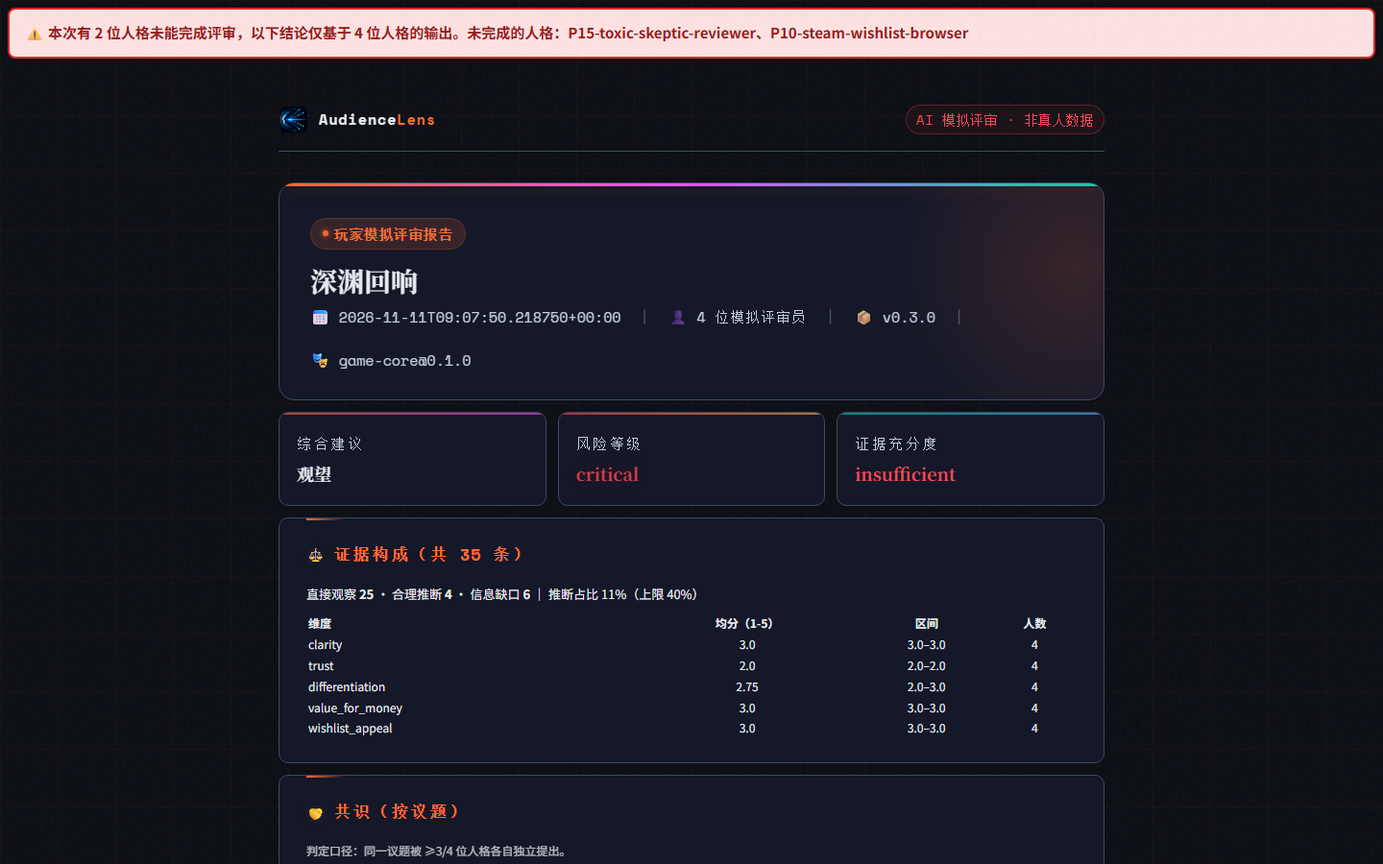
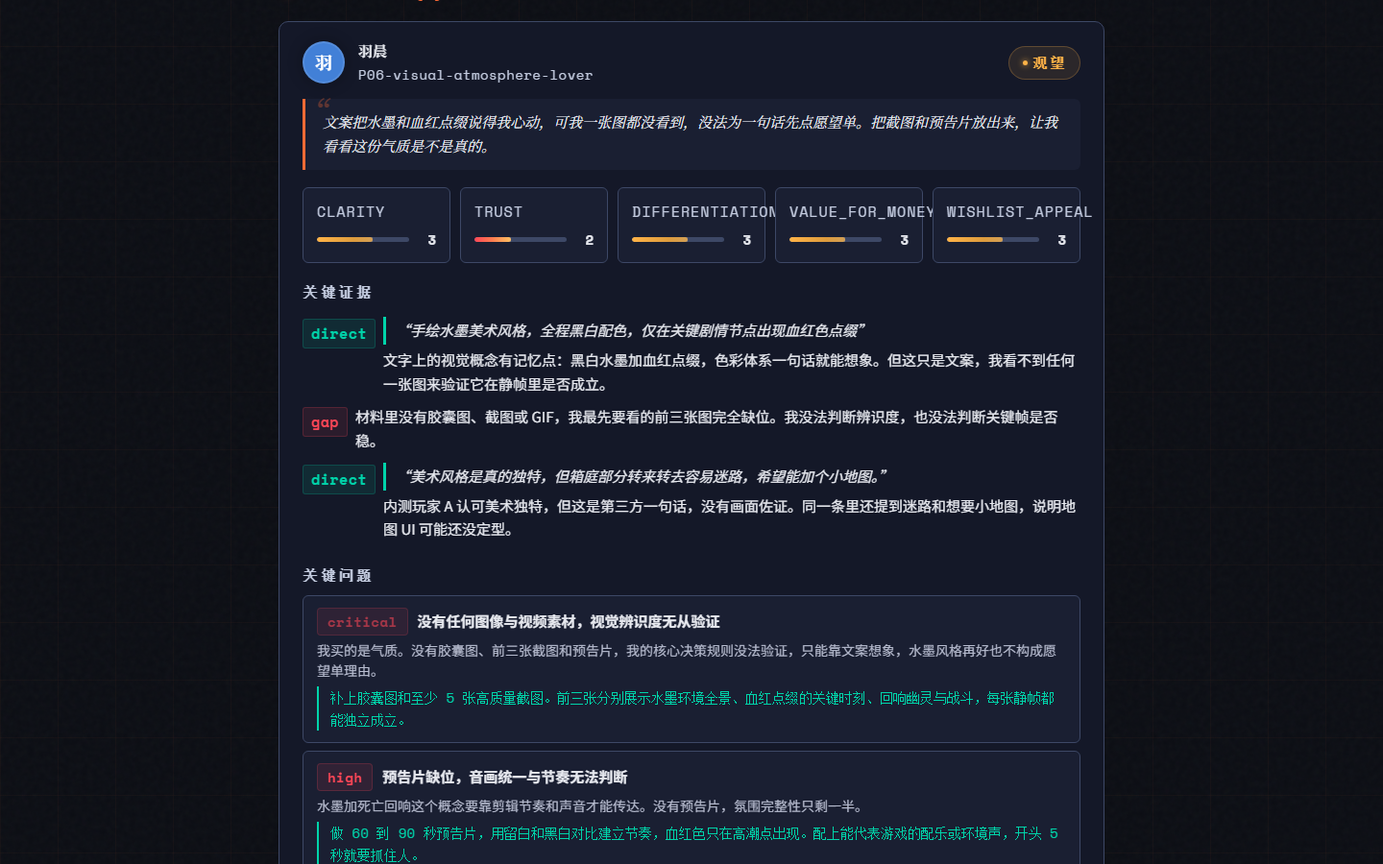
Samples: replace only the stylesheet of report.html; recapture screenshots
- The three stored sample report.html files (and their frontend copies)
  get the fixed template's <style> block. Everything outside <style> is
  byte-identical to the file the engine generated; each meta.json
  records the generated file's hash, the hash of the part outside
  <style>, the fix commit and the reason, and a test recomputes it.
- Wording in the READMEs (en/zh/ja) and on the /samples page: the model
  output is unedited; the stylesheet was updated after a CSS fix.
- report.png (en, zh) recaptured at the persona section, where the
  quotation is shown above the comment; samples.png recaptured because
  the page text changed.

Changed region(s): [[0.0, 0.0, 1.0, 1.0], [0.625, 0.3422, 0.6875, 0.3733]]

diff --git a/examples/reports/saas-pricing-cloud-notes/report.html b/examples/reports/saas-pricing-cloud-notes/report.html
@@ -79,7 +79,6 @@
   .severity-badge.high{background:rgba(255,71,87,0.1);color:var(--red);border:1px solid rgba(255,71,87,0.2)}
   .severity-badge.critical{background:rgba(255,71,87,0.15);color:var(--red);border:1px solid rgba(255,71,87,0.3);animation:critical-pulse 1.5s ease-in-out infinite}
   .comment-thread{margin-top:12px}
-  .comment-thread .section-title{.stance-persona{font-family:var(--font-mono);font-weight:700;min-width:70px;color:var(--text-secondary);font-size:14px}
   .comment{background:var(--surface);border:1px solid var(--border);border-radius:var(--radius-sm);margin-bottom:14px;overflow:hidden;transition:border-color 0.3s,box-shadow 0.3s;position:relative}
   .comment::before{content:'';position:absolute;top:0;left:0;bottom:0;width:3px;background:linear-gradient(180deg,var(--accent),var(--magenta));opacity:0;transition:opacity 0.3s}
   .comment:hover{border-color:var(--border-glow);box-shadow:0 0 30px rgba(255,107,53,0.05)}
@@ -130,7 +129,7 @@
   .issue-title{font-size:15px;font-weight:700}
   .issue-why{font-size:14px;color:#b8bdd0;line-height:1.5}
   .issue-fix{font-size:14px;color:var(--cyan);margin-top:6px;font-family:var(--font-mono);padding-left:12px;border-left:2px solid var(--cyan)}
-  .triggers-row{display:flex;gap:20px;flex-wrap:wrap;.stance-persona{font-family:var(--font-mono);font-weight:700;min-width:70px;color:var(--text-secondary);font-size:14px}
+  .triggers-row{display:flex;gap:20px;flex-wrap:wrap}
   .trigger-group{flex:1;min-width:200px}
   .trigger-group .sub-title{font-family:var(--font-mono);font-size:15px;font-weight:700;margin-bottom:6px;text-transform:uppercase;letter-spacing:1px}
   .trigger-group.continue .sub-title{color:var(--green)}
@@ -237,7 +236,7 @@
   .compliance-steps-list li::before{content:'\25C7';position:absolute;left:0;color:var(--cyan);font-size:14px}
   .compliance-ai-notice{margin-top:16px;padding:12px 18px;background:rgba(255,71,87,0.05);border:1px solid rgba(255,71,87,0.15);border-radius:var(--radius-xs);font-family:var(--font-mono);font-size:15px;color:var(--red);display:flex;align-items:center;gap:8px}
   .compliance-ai-notice::before{content:'\26A0';font-size:14px}
-  @media(max-width:640px){.container{padding:20px 12px 60px}.post-header{padding:24px 18px 20px}.post-title{font-size:22px}.summary-hud{grid-template-columns:1fr}.comment-top{flex-wrap:wrap}.scores-grid{grid-template-columns:1fr 1fr}.fix-table{.stance-persona{font-family:var(--font-mono);font-weight:700;min-width:70px;color:var(--text-secondary);font-size:14px}.fix-table th,.fix-table td{padding:8px}.triggers-row{flex-direction:column}.debate-sides{grid-template-columns:1fr}.debate-side.pro{border-right:none;border-bottom:1px solid var(--border)}.compliance-body{grid-template-columns:1fr}.round-indicator{flex-wrap:wrap}.round-step{min-width:calc(50% - 2px)}.round-connector{display:none}.vote-change-item{flex-wrap:wrap}}
+  @media(max-width:640px){.container{padding:20px 12px 60px}.post-header{padding:24px 18px 20px}.post-title{font-size:22px}.summary-hud{grid-template-columns:1fr}.comment-top{flex-wrap:wrap}.scores-grid{grid-template-columns:1fr 1fr}.fix-table th,.fix-table td{padding:8px}.triggers-row{flex-direction:column}.debate-sides{grid-template-columns:1fr}.debate-side.pro{border-right:none;border-bottom:1px solid var(--border)}.compliance-body{grid-template-columns:1fr}.round-indicator{flex-wrap:wrap}.round-step{min-width:calc(50% - 2px)}.round-connector{display:none}.vote-change-item{flex-wrap:wrap}}
   /* 「浏览器打印生成 PDF」的专用样式。原页面是深色主题——原样打印会整页黑底
      铺满，要么被浏览器默认策略吞掉背景色变成白底白字看不见，要么真按深色印
      出来废掉一墨盒。打印场景要的是"能读、省墨"，不是还原网页视觉效果。 */

diff --git a/examples/reports/startup-pitch-cloud-accounting/report.html b/examples/reports/startup-pitch-cloud-accounting/report.html
@@ -79,7 +79,6 @@
   .severity-badge.high{background:rgba(255,71,87,0.1);color:var(--red);border:1px solid rgba(255,71,87,0.2)}
   .severity-badge.critical{background:rgba(255,71,87,0.15);color:var(--red);border:1px solid rgba(255,71,87,0.3);animation:critical-pulse 1.5s ease-in-out infinite}
   .comment-thread{margin-top:12px}
-  .comment-thread .section-title{.stance-persona{font-family:var(--font-mono);font-weight:700;min-width:70px;color:var(--text-secondary);font-size:14px}
   .comment{background:var(--surface);border:1px solid var(--border);border-radius:var(--radius-sm);margin-bottom:14px;overflow:hidden;transition:border-color 0.3s,box-shadow 0.3s;position:relative}
   .comment::before{content:'';position:absolute;top:0;left:0;bottom:0;width:3px;background:linear-gradient(180deg,var(--accent),var(--magenta));opacity:0;transition:opacity 0.3s}
   .comment:hover{border-color:var(--border-glow);box-shadow:0 0 30px rgba(255,107,53,0.05)}
@@ -130,7 +129,7 @@
   .issue-title{font-size:15px;font-weight:700}
   .issue-why{font-size:14px;color:#b8bdd0;line-height:1.5}
   .issue-fix{font-size:14px;color:var(--cyan);margin-top:6px;font-family:var(--font-mono);padding-left:12px;border-left:2px solid var(--cyan)}
-  .triggers-row{display:flex;gap:20px;flex-wrap:wrap;.stance-persona{font-family:var(--font-mono);font-weight:700;min-width:70px;color:var(--text-secondary);font-size:14px}
+  .triggers-row{display:flex;gap:20px;flex-wrap:wrap}
   .trigger-group{flex:1;min-width:200px}
   .trigger-group .sub-title{font-family:var(--font-mono);font-size:15px;font-weight:700;margin-bottom:6px;text-transform:uppercase;letter-spacing:1px}
   .trigger-group.continue .sub-title{color:var(--green)}
@@ -237,7 +236,7 @@
   .compliance-steps-list li::before{content:'\25C7';position:absolute;left:0;color:var(--cyan);font-size:14px}
   .compliance-ai-notice{margin-top:16px;padding:12px 18px;background:rgba(255,71,87,0.05);border:1px solid rgba(255,71,87,0.15);border-radius:var(--radius-xs);font-family:var(--font-mono);font-size:15px;color:var(--red);display:flex;align-items:center;gap:8px}
   .compliance-ai-notice::before{content:'\26A0';font-size:14px}
-  @media(max-width:640px){.container{padding:20px 12px 60px}.post-header{padding:24px 18px 20px}.post-title{font-size:22px}.summary-hud{grid-template-columns:1fr}.comment-top{flex-wrap:wrap}.scores-grid{grid-template-columns:1fr 1fr}.fix-table{.stance-persona{font-family:var(--font-mono);font-weight:700;min-width:70px;color:var(--text-secondary);font-size:14px}.fix-table th,.fix-table td{padding:8px}.triggers-row{flex-direction:column}.debate-sides{grid-template-columns:1fr}.debate-side.pro{border-right:none;border-bottom:1px solid var(--border)}.compliance-body{grid-template-columns:1fr}.round-indicator{flex-wrap:wrap}.round-step{min-width:calc(50% - 2px)}.round-connector{display:none}.vote-change-item{flex-wrap:wrap}}
+  @media(max-width:640px){.container{padding:20px 12px 60px}.post-header{padding:24px 18px 20px}.post-title{font-size:22px}.summary-hud{grid-template-columns:1fr}.comment-top{flex-wrap:wrap}.scores-grid{grid-template-columns:1fr 1fr}.fix-table th,.fix-table td{padding:8px}.triggers-row{flex-direction:column}.debate-sides{grid-template-columns:1fr}.debate-side.pro{border-right:none;border-bottom:1px solid var(--border)}.compliance-body{grid-template-columns:1fr}.round-indicator{flex-wrap:wrap}.round-step{min-width:calc(50% - 2px)}.round-connector{display:none}.vote-change-item{flex-wrap:wrap}}
   /* 「浏览器打印生成 PDF」的专用样式。原页面是深色主题——原样打印会整页黑底
      铺满，要么被浏览器默认策略吞掉背景色变成白底白字看不见，要么真按深色印
      出来废掉一墨盒。打印场景要的是"能读、省墨"，不是还原网页视觉效果。 */

diff --git a/examples/reports/steam-page-abyss-echo/report.html b/examples/reports/steam-page-abyss-echo/report.html
@@ -79,7 +79,6 @@
   .severity-badge.high{background:rgba(255,71,87,0.1);color:var(--red);border:1px solid rgba(255,71,87,0.2)}
   .severity-badge.critical{background:rgba(255,71,87,0.15);color:var(--red);border:1px solid rgba(255,71,87,0.3);animation:critical-pulse 1.5s ease-in-out infinite}
   .comment-thread{margin-top:12px}
-  .comment-thread .section-title{.stance-persona{font-family:var(--font-mono);font-weight:700;min-width:70px;color:var(--text-secondary);font-size:14px}
   .comment{background:var(--surface);border:1px solid var(--border);border-radius:var(--radius-sm);margin-bottom:14px;overflow:hidden;transition:border-color 0.3s,box-shadow 0.3s;position:relative}
   .comment::before{content:'';position:absolute;top:0;left:0;bottom:0;width:3px;background:linear-gradient(180deg,var(--accent),var(--magenta));opacity:0;transition:opacity 0.3s}
   .comment:hover{border-color:var(--border-glow);box-shadow:0 0 30px rgba(255,107,53,0.05)}
@@ -130,7 +129,7 @@
   .issue-title{font-size:15px;font-weight:700}
   .issue-why{font-size:14px;color:#b8bdd0;line-height:1.5}
   .issue-fix{font-size:14px;color:var(--cyan);margin-top:6px;font-family:var(--font-mono);padding-left:12px;border-left:2px solid var(--cyan)}
-  .triggers-row{display:flex;gap:20px;flex-wrap:wrap;.stance-persona{font-family:var(--font-mono);font-weight:700;min-width:70px;color:var(--text-secondary);font-size:14px}
+  .triggers-row{display:flex;gap:20px;flex-wrap:wrap}
   .trigger-group{flex:1;min-width:200px}
   .trigger-group .sub-title{font-family:var(--font-mono);font-size:15px;font-weight:700;margin-bottom:6px;text-transform:uppercase;letter-spacing:1px}
   .trigger-group.continue .sub-title{color:var(--green)}
@@ -237,7 +236,7 @@
   .compliance-steps-list li::before{content:'\25C7';position:absolute;left:0;color:var(--cyan);font-size:14px}
   .compliance-ai-notice{margin-top:16px;padding:12px 18px;background:rgba(255,71,87,0.05);border:1px solid rgba(255,71,87,0.15);border-radius:var(--radius-xs);font-family:var(--font-mono);font-size:15px;color:var(--red);display:flex;align-items:center;gap:8px}
   .compliance-ai-notice::before{content:'\26A0';font-size:14px}
-  @media(max-width:640px){.container{padding:20px 12px 60px}.post-header{padding:24px 18px 20px}.post-title{font-size:22px}.summary-hud{grid-template-columns:1fr}.comment-top{flex-wrap:wrap}.scores-grid{grid-template-columns:1fr 1fr}.fix-table{.stance-persona{font-family:var(--font-mono);font-weight:700;min-width:70px;color:var(--text-secondary);font-size:14px}.fix-table th,.fix-table td{padding:8px}.triggers-row{flex-direction:column}.debate-sides{grid-template-columns:1fr}.debate-side.pro{border-right:none;border-bottom:1px solid var(--border)}.compliance-body{grid-template-columns:1fr}.round-indicator{flex-wrap:wrap}.round-step{min-width:calc(50% - 2px)}.round-connector{display:none}.vote-change-item{flex-wrap:wrap}}
+  @media(max-width:640px){.container{padding:20px 12px 60px}.post-header{padding:24px 18px 20px}.post-title{font-size:22px}.summary-hud{grid-template-columns:1fr}.comment-top{flex-wrap:wrap}.scores-grid{grid-template-columns:1fr 1fr}.fix-table th,.fix-table td{padding:8px}.triggers-row{flex-direction:column}.debate-sides{grid-template-columns:1fr}.debate-side.pro{border-right:none;border-bottom:1px solid var(--border)}.compliance-body{grid-template-columns:1fr}.round-indicator{flex-wrap:wrap}.round-step{min-width:calc(50% - 2px)}.round-connector{display:none}.vote-change-item{flex-wrap:wrap}}
   /* 「浏览器打印生成 PDF」的专用样式。原页面是深色主题——原样打印会整页黑底
      铺满，要么被浏览器默认策略吞掉背景色变成白底白字看不见，要么真按深色印
      出来废掉一墨盒。打印场景要的是"能读、省墨"，不是还原网页视觉效果。 */

diff --git a/web/frontend/public/sample-reports/saas-pricing-cloud-notes/report.html b/web/frontend/public/sample-reports/saas-pricing-cloud-notes/report.html
@@ -79,7 +79,6 @@
   .severity-badge.high{background:rgba(255,71,87,0.1);color:var(--red);border:1px solid rgba(255,71,87,0.2)}
   .severity-badge.critical{background:rgba(255,71,87,0.15);color:var(--red);border:1px solid rgba(255,71,87,0.3);animation:critical-pulse 1.5s ease-in-out infinite}
   .comment-thread{margin-top:12px}
-  .comment-thread .section-title{.stance-persona{font-family:var(--font-mono);font-weight:700;min-width:70px;color:var(--text-secondary);font-size:14px}
   .comment{background:var(--surface);border:1px solid var(--border);border-radius:var(--radius-sm);margin-bottom:14px;overflow:hidden;transition:border-color 0.3s,box-shadow 0.3s;position:relative}
   .comment::before{content:'';position:absolute;top:0;left:0;bottom:0;width:3px;background:linear-gradient(180deg,var(--accent),var(--magenta));opacity:0;transition:opacity 0.3s}
   .comment:hover{border-color:var(--border-glow);box-shadow:0 0 30px rgba(255,107,53,0.05)}
@@ -130,7 +129,7 @@
   .issue-title{font-size:15px;font-weight:700}
   .issue-why{font-size:14px;color:#b8bdd0;line-height:1.5}
   .issue-fix{font-size:14px;color:var(--cyan);margin-top:6px;font-family:var(--font-mono);padding-left:12px;border-left:2px solid var(--cyan)}
-  .triggers-row{display:flex;gap:20px;flex-wrap:wrap;.stance-persona{font-family:var(--font-mono);font-weight:700;min-width:70px;color:var(--text-secondary);font-size:14px}
+  .triggers-row{display:flex;gap:20px;flex-wrap:wrap}
   .trigger-group{flex:1;min-width:200px}
   .trigger-group .sub-title{font-family:var(--font-mono);font-size:15px;font-weight:700;margin-bottom:6px;text-transform:uppercase;letter-spacing:1px}
   .trigger-group.continue .sub-title{color:var(--green)}
@@ -237,7 +236,7 @@
   .compliance-steps-list li::before{content:'\25C7';position:absolute;left:0;color:var(--cyan);font-size:14px}
   .compliance-ai-notice{margin-top:16px;padding:12px 18px;background:rgba(255,71,87,0.05);border:1px solid rgba(255,71,87,0.15);border-radius:var(--radius-xs);font-family:var(--font-mono);font-size:15px;color:var(--red);display:flex;align-items:center;gap:8px}
   .compliance-ai-notice::before{content:'\26A0';font-size:14px}
-  @media(max-width:640px){.container{padding:20px 12px 60px}.post-header{padding:24px 18px 20px}.post-title{font-size:22px}.summary-hud{grid-template-columns:1fr}.comment-top{flex-wrap:wrap}.scores-grid{grid-template-columns:1fr 1fr}.fix-table{.stance-persona{font-family:var(--font-mono);font-weight:700;min-width:70px;color:var(--text-secondary);font-size:14px}.fix-table th,.fix-table td{padding:8px}.triggers-row{flex-direction:column}.debate-sides{grid-template-columns:1fr}.debate-side.pro{border-right:none;border-bottom:1px solid var(--border)}.compliance-body{grid-template-columns:1fr}.round-indicator{flex-wrap:wrap}.round-step{min-width:calc(50% - 2px)}.round-connector{display:none}.vote-change-item{flex-wrap:wrap}}
+  @media(max-width:640px){.container{padding:20px 12px 60px}.post-header{padding:24px 18px 20px}.post-title{font-size:22px}.summary-hud{grid-template-columns:1fr}.comment-top{flex-wrap:wrap}.scores-grid{grid-template-columns:1fr 1fr}.fix-table th,.fix-table td{padding:8px}.triggers-row{flex-direction:column}.debate-sides{grid-template-columns:1fr}.debate-side.pro{border-right:none;border-bottom:1px solid var(--border)}.compliance-body{grid-template-columns:1fr}.round-indicator{flex-wrap:wrap}.round-step{min-width:calc(50% - 2px)}.round-connector{display:none}.vote-change-item{flex-wrap:wrap}}
   /* 「浏览器打印生成 PDF」的专用样式。原页面是深色主题——原样打印会整页黑底
      铺满，要么被浏览器默认策略吞掉背景色变成白底白字看不见，要么真按深色印
      出来废掉一墨盒。打印场景要的是"能读、省墨"，不是还原网页视觉效果。 */

diff --git a/web/frontend/public/sample-reports/startup-pitch-cloud-accounting/report.html b/web/frontend/public/sample-reports/startup-pitch-cloud-accounting/report.html
@@ -79,7 +79,6 @@
   .severity-badge.high{background:rgba(255,71,87,0.1);color:var(--red);border:1px solid rgba(255,71,87,0.2)}
   .severity-badge.critical{background:rgba(255,71,87,0.15);color:var(--red);border:1px solid rgba(255,71,87,0.3);animation:critical-pulse 1.5s ease-in-out infinite}
   .comment-thread{margin-top:12px}
-  .comment-thread .section-title{.stance-persona{font-family:var(--font-mono);font-weight:700;min-width:70px;color:var(--text-secondary);font-size:14px}
   .comment{background:var(--surface);border:1px solid var(--border);border-radius:var(--radius-sm);margin-bottom:14px;overflow:hidden;transition:border-color 0.3s,box-shadow 0.3s;position:relative}
   .comment::before{content:'';position:absolute;top:0;left:0;bottom:0;width:3px;background:linear-gradient(180deg,var(--accent),var(--magenta));opacity:0;transition:opacity 0.3s}
   .comment:hover{border-color:var(--border-glow);box-shadow:0 0 30px rgba(255,107,53,0.05)}
@@ -130,7 +129,7 @@
   .issue-title{font-size:15px;font-weight:700}
   .issue-why{font-size:14px;color:#b8bdd0;line-height:1.5}
   .issue-fix{font-size:14px;color:var(--cyan);margin-top:6px;font-family:var(--font-mono);padding-left:12px;border-left:2px solid var(--cyan)}
-  .triggers-row{display:flex;gap:20px;flex-wrap:wrap;.stance-persona{font-family:var(--font-mono);font-weight:700;min-width:70px;color:var(--text-secondary);font-size:14px}
+  .triggers-row{display:flex;gap:20px;flex-wrap:wrap}
   .trigger-group{flex:1;min-width:200px}
   .trigger-group .sub-title{font-family:var(--font-mono);font-size:15px;font-weight:700;margin-bottom:6px;text-transform:uppercase;letter-spacing:1px}
   .trigger-group.continue .sub-title{color:var(--green)}
@@ -237,7 +236,7 @@
   .compliance-steps-list li::before{content:'\25C7';position:absolute;left:0;color:var(--cyan);font-size:14px}
   .compliance-ai-notice{margin-top:16px;padding:12px 18px;background:rgba(255,71,87,0.05);border:1px solid rgba(255,71,87,0.15);border-radius:var(--radius-xs);font-family:var(--font-mono);font-size:15px;color:var(--red);display:flex;align-items:center;gap:8px}
   .compliance-ai-notice::before{content:'\26A0';font-size:14px}
-  @media(max-width:640px){.container{padding:20px 12px 60px}.post-header{padding:24px 18px 20px}.post-title{font-size:22px}.summary-hud{grid-template-columns:1fr}.comment-top{flex-wrap:wrap}.scores-grid{grid-template-columns:1fr 1fr}.fix-table{.stance-persona{font-family:var(--font-mono);font-weight:700;min-width:70px;color:var(--text-secondary);font-size:14px}.fix-table th,.fix-table td{padding:8px}.triggers-row{flex-direction:column}.debate-sides{grid-template-columns:1fr}.debate-side.pro{border-right:none;border-bottom:1px solid var(--border)}.compliance-body{grid-template-columns:1fr}.round-indicator{flex-wrap:wrap}.round-step{min-width:calc(50% - 2px)}.round-connector{display:none}.vote-change-item{flex-wrap:wrap}}
+  @media(max-width:640px){.container{padding:20px 12px 60px}.post-header{padding:24px 18px 20px}.post-title{font-size:22px}.summary-hud{grid-template-columns:1fr}.comment-top{flex-wrap:wrap}.scores-grid{grid-template-columns:1fr 1fr}.fix-table th,.fix-table td{padding:8px}.triggers-row{flex-direction:column}.debate-sides{grid-template-columns:1fr}.debate-side.pro{border-right:none;border-bottom:1px solid var(--border)}.compliance-body{grid-template-columns:1fr}.round-indicator{flex-wrap:wrap}.round-step{min-width:calc(50% - 2px)}.round-connector{display:none}.vote-change-item{flex-wrap:wrap}}
   /* 「浏览器打印生成 PDF」的专用样式。原页面是深色主题——原样打印会整页黑底
      铺满，要么被浏览器默认策略吞掉背景色变成白底白字看不见，要么真按深色印
      出来废掉一墨盒。打印场景要的是"能读、省墨"，不是还原网页视觉效果。 */

diff --git a/web/frontend/public/sample-reports/steam-page-abyss-echo/report.html b/web/frontend/public/sample-reports/steam-page-abyss-echo/report.html
@@ -79,7 +79,6 @@
   .severity-badge.high{background:rgba(255,71,87,0.1);color:var(--red);border:1px solid rgba(255,71,87,0.2)}
   .severity-badge.critical{background:rgba(255,71,87,0.15);color:var(--red);border:1px solid rgba(255,71,87,0.3);animation:critical-pulse 1.5s ease-in-out infinite}
   .comment-thread{margin-top:12px}
-  .comment-thread .section-title{.stance-persona{font-family:var(--font-mono);font-weight:700;min-width:70px;color:var(--text-secondary);font-size:14px}
   .comment{background:var(--surface);border:1px solid var(--border);border-radius:var(--radius-sm);margin-bottom:14px;overflow:hidden;transition:border-color 0.3s,box-shadow 0.3s;position:relative}
   .comment::before{content:'';position:absolute;top:0;left:0;bottom:0;width:3px;background:linear-gradient(180deg,var(--accent),var(--magenta));opacity:0;transition:opacity 0.3s}
   .comment:hover{border-color:var(--border-glow);box-shadow:0 0 30px rgba(255,107,53,0.05)}
@@ -130,7 +129,7 @@
   .issue-title{font-size:15px;font-weight:700}
   .issue-why{font-size:14px;color:#b8bdd0;line-height:1.5}
   .issue-fix{font-size:14px;color:var(--cyan);margin-top:6px;font-family:var(--font-mono);padding-left:12px;border-left:2px solid var(--cyan)}
-  .triggers-row{display:flex;gap:20px;flex-wrap:wrap;.stance-persona{font-family:var(--font-mono);font-weight:700;min-width:70px;color:var(--text-secondary);font-size:14px}
+  .triggers-row{display:flex;gap:20px;flex-wrap:wrap}
   .trigger-group{flex:1;min-width:200px}
   .trigger-group .sub-title{font-family:var(--font-mono);font-size:15px;font-weight:700;margin-bottom:6px;text-transform:uppercase;letter-spacing:1px}
   .trigger-group.continue .sub-title{color:var(--green)}
@@ -237,7 +236,7 @@
   .compliance-steps-list li::before{content:'\25C7';position:absolute;left:0;color:var(--cyan);font-size:14px}
   .compliance-ai-notice{margin-top:16px;padding:12px 18px;background:rgba(255,71,87,0.05);border:1px solid rgba(255,71,87,0.15);border-radius:var(--radius-xs);font-family:var(--font-mono);font-size:15px;color:var(--red);display:flex;align-items:center;gap:8px}
   .compliance-ai-notice::before{content:'\26A0';font-size:14px}
-  @media(max-width:640px){.container{padding:20px 12px 60px}.post-header{padding:24px 18px 20px}.post-title{font-size:22px}.summary-hud{grid-template-columns:1fr}.comment-top{flex-wrap:wrap}.scores-grid{grid-template-columns:1fr 1fr}.fix-table{.stance-persona{font-family:var(--font-mono);font-weight:700;min-width:70px;color:var(--text-secondary);font-size:14px}.fix-table th,.fix-table td{padding:8px}.triggers-row{flex-direction:column}.debate-sides{grid-template-columns:1fr}.debate-side.pro{border-right:none;border-bottom:1px solid var(--border)}.compliance-body{grid-template-columns:1fr}.round-indicator{flex-wrap:wrap}.round-step{min-width:calc(50% - 2px)}.round-connector{display:none}.vote-change-item{flex-wrap:wrap}}
+  @media(max-width:640px){.container{padding:20px 12px 60px}.post-header{padding:24px 18px 20px}.post-title{font-size:22px}.summary-hud{grid-template-columns:1fr}.comment-top{flex-wrap:wrap}.scores-grid{grid-template-columns:1fr 1fr}.fix-table th,.fix-table td{padding:8px}.triggers-row{flex-direction:column}.debate-sides{grid-template-columns:1fr}.debate-side.pro{border-right:none;border-bottom:1px solid var(--border)}.compliance-body{grid-template-columns:1fr}.round-indicator{flex-wrap:wrap}.round-step{min-width:calc(50% - 2px)}.round-connector{display:none}.vote-change-item{flex-wrap:wrap}}
   /* 「浏览器打印生成 PDF」的专用样式。原页面是深色主题——原样打印会整页黑底
      铺满，要么被浏览器默认策略吞掉背景色变成白底白字看不见，要么真按深色印
      出来废掉一墨盒。打印场景要的是"能读、省墨"，不是还原网页视觉效果。 */

diff --git a/web/frontend/src/i18n/locales/en/page.samples.ts b/web/frontend/src/i18n/locales/en/page.samples.ts
@@ -4,7 +4,7 @@ export default {
   'meta.title': 'Sample reports',
   'header.title': 'Sample reports',
   'header.desc':
-    'Each report below was produced by a real AudienceLens engine run on fictional product material and saved as-is, with no manual edits. Open one to see the full HTML report.',
+    'Each report below was produced by a real AudienceLens engine run on fictional product material and the model output is unedited (only the stylesheet of the HTML report was updated after a CSS fix). Open one to see the full HTML report.',
   'notice.desc':
     'These are AI-generated synthetic reviews, not real user research. Personas that failed validation are left out of the conclusions, and the report says so at the top.',
   'load.pending': 'Loading the sample list…',

diff --git a/web/frontend/src/i18n/locales/zh/page.samples.ts b/web/frontend/src/i18n/locales/zh/page.samples.ts
@@ -10,7 +10,7 @@ export default {
   'meta.title': '样例报告',
   'header.title': '样例报告',
   'header.desc':
-    '下面几份报告由 AudienceLens 引擎对虚构的产品材料真实运行生成，原样保存，没有手工修改。点开可以看到完整的 HTML 报告。',
+    '下面几份报告由 AudienceLens 引擎对虚构的产品材料真实运行生成，模型输出没有改动（HTML 报告只在一次 CSS 修复后更新过样式表）。点开可以看到完整的 HTML 报告。',
   'notice.desc':
     '这些都是 AI 合成评审，不是真实用户研究。没通过校验的人格不计入结论，报告顶部会如实标出。',
   'load.pending': '正在加载样例列表…',

diff --git a/tests/test_sample_reports.py b/tests/test_sample_reports.py
@@ -155,3 +155,34 @@ def test_archived_pre_quote_samples_keep_their_recorded_recheck():
         assert note["direct_entries"] == r["direct_entries"]
         assert note["direct_entries_grounded_rule_at_generation"] == r["grounded_before"]
         assert note["direct_entries_grounded_coverage_rule"] == r["grounded_after"]
+
+
+def _outside_style(html: str) -> str:
+    assert html.count("<style>") == 1 and html.count("</style>") == 1
+    a = html.index("<style>")
+    b = html.index("</style>") + len("</style>")
+    return html[:a] + html[b:]
+
+
+@pytest.mark.parametrize("slug", SLUGS)
+def test_only_the_stylesheet_of_report_html_was_replaced(slug):
+    """样例的 report.html 在生成之后只换过 <style> 块（模板的 CSS 花括号不配平，修了之后把
+    修好的样式表换进去）。<style> 之外的一切必须和引擎生成的那份逐字节相同——
+    meta.json 记着生成件 <style> 之外部分的哈希，这里重算比对。模型输出没有被动过。"""
+    import hashlib
+
+    folder = os.path.join(REPORTS, slug)
+    with open(os.path.join(folder, "meta.json"), encoding="utf-8") as f:
+        note = json.load(f)["stylesheet_updated"]
+    with open(os.path.join(folder, "report.html"), "rb") as f:
+        raw = f.read()
+    html = raw.decode("utf-8")
+    assert hashlib.sha256(_outside_style(html).encode("utf-8")).hexdigest() == note["outside_style_sha256"]
+    # 整份文件确实和生成件不同（换过样式表），而且换进去的样式表花括号是配平的
+    assert hashlib.sha256(raw).hexdigest() != note["generated_html_sha256"]
+    css = html[html.index("<style>"):html.index("</style>")]
+    assert css.count("{") == css.count("}")
+    assert note["template_fix_commit"] and note["reason"]
+    # 前端那份拷贝必须是同一个文件
+    with open(os.path.join(ROOT, "web", "frontend", "public", "sample-reports", slug, "report.html"), "rb") as f:
+        assert f.read() == raw

diff --git a/docs/images/README.md b/docs/images/README.md
@@ -7,7 +7,7 @@ The app has no Japanese UI yet, so the Japanese README shows the English screens
 |---|---|---|
 | `hero.png` | homepage (conversational review entry), `/?lang=en` | same page, `/?lang=zh` |
 | `samples.png` | `/samples?lang=en` | `/samples?lang=zh` |
-| `report.png` | top of the stored sample report `examples/reports/steam-page-abyss-echo/report.html`, exactly as generated | same file (byte-identical) |
+| `report.png` | stored sample report `examples/reports/steam-page-abyss-echo/report.html`, scrolled to the first persona card so the quotation-above-comment layout is visible | same file (byte-identical) |
 
 `report.png` is the same image in both folders. The report text is model output in Chinese:
 the engine currently generates reports in Chinese only (`SUPPORTED_REPORT_LANGS = ("zh-CN",)`,
@@ -19,8 +19,7 @@ instance in single-user mode, with no API key loaded into the web process. Both 
 enabled at build time with `VITE_AL_LOCALES=zh,en` and selected with `?lang=`. The app ships a
 single (dark) theme.
 
-`report.png` shows the top of the report only. The persona section further down, where each
-`direct` entry's quotation appears above the comment, is not in the screenshot: the stored
-`report.html` files were generated with a stylesheet bug that leaves that section unstyled
-(fixed in `src/templates/report-template.html` for later runs; the stored files are kept as
-generated). The Markdown reports (`report.md`) show the quotations as block quotes.
+`report.png` is a 1440×900 crop of a full-height capture of that report, starting just above the
+first persona card. The stored `report.html` files had only their `<style>` block replaced after
+a CSS fix (the generated stylesheet left the persona section unstyled); everything else in them
+is byte-identical to what the engine generated, and each sample's `meta.json` records that.

diff --git a/README_ja.md b/README_ja.md
@@ -31,7 +31,7 @@
 
 ## サンプルレポート
 
-架空のプロダクト資料に対して実際のエンジンを動かした結果を、生成されたまま保存しています（手作業での編集はありません）。標準モード、モデルは `claude-sonnet-5-5`、2026-11-11 と 2026-11-12 に実行、セマンティック重複排除は有効、コストはアプリ自身の集計値です。各フォルダの `meta.json` に実行の記録、`persona_outputs.json` に検証を通過したペルソナ出力があります。
+架空のプロダクト資料に対して実際のエンジンを動かした結果です。モデルの出力は編集していません。各 `report.html` のスタイルシートだけ、CSS の修正後に更新しました（それ以外は生成時のままです）。標準モード、モデルは `claude-sonnet-5-5`、2026-11-11 と 2026-11-12 に実行、セマンティック重複排除は有効、コストはアプリ自身の集計値です。各フォルダの `meta.json` に実行の記録、`persona_outputs.json` に検証を通過したペルソナ出力があります。
 
 | レポート | 入力 | 検証を通過したペルソナ | 資料に基づく `direct` エントリ | 反論ステップ | コスト |
 |---|---|---|---|---|---|

diff --git a/docs/evaluation/grounding-check.md b/docs/evaluation/grounding-check.md
@@ -208,9 +208,10 @@ if it were part of the quote. The fix is in the schema, not in the threshold.
 - Reports carry the quote separately (`persona_notes[].evidence_top3_detail`) and render it as a
   quotation above the comment. One caveat for the HTML report: the template's stylesheet had
   three unclosed rules, dating from the first commits, that left the whole persona section
-  unstyled in a browser. That was fixed on 2026-11-12, after the current samples were generated,
-  so their stored `report.html` files still show that section as plain text. The Markdown
-  reports show the quotations as block quotes.
+  unstyled in a browser. That was fixed on 2026-11-12, after the current samples were generated.
+  Their stored `report.html` files then had only the `<style>` block replaced with the fixed
+  stylesheet; everything outside it is byte-identical to the generated file (hashes in each
+  `meta.json`, checked by a test). The Markdown reports show the quotations as block quotes.
 - The report-level calibration metric named `hallucination` now calls the same function, so the
   gate and the metric cannot disagree about an entry.
 
